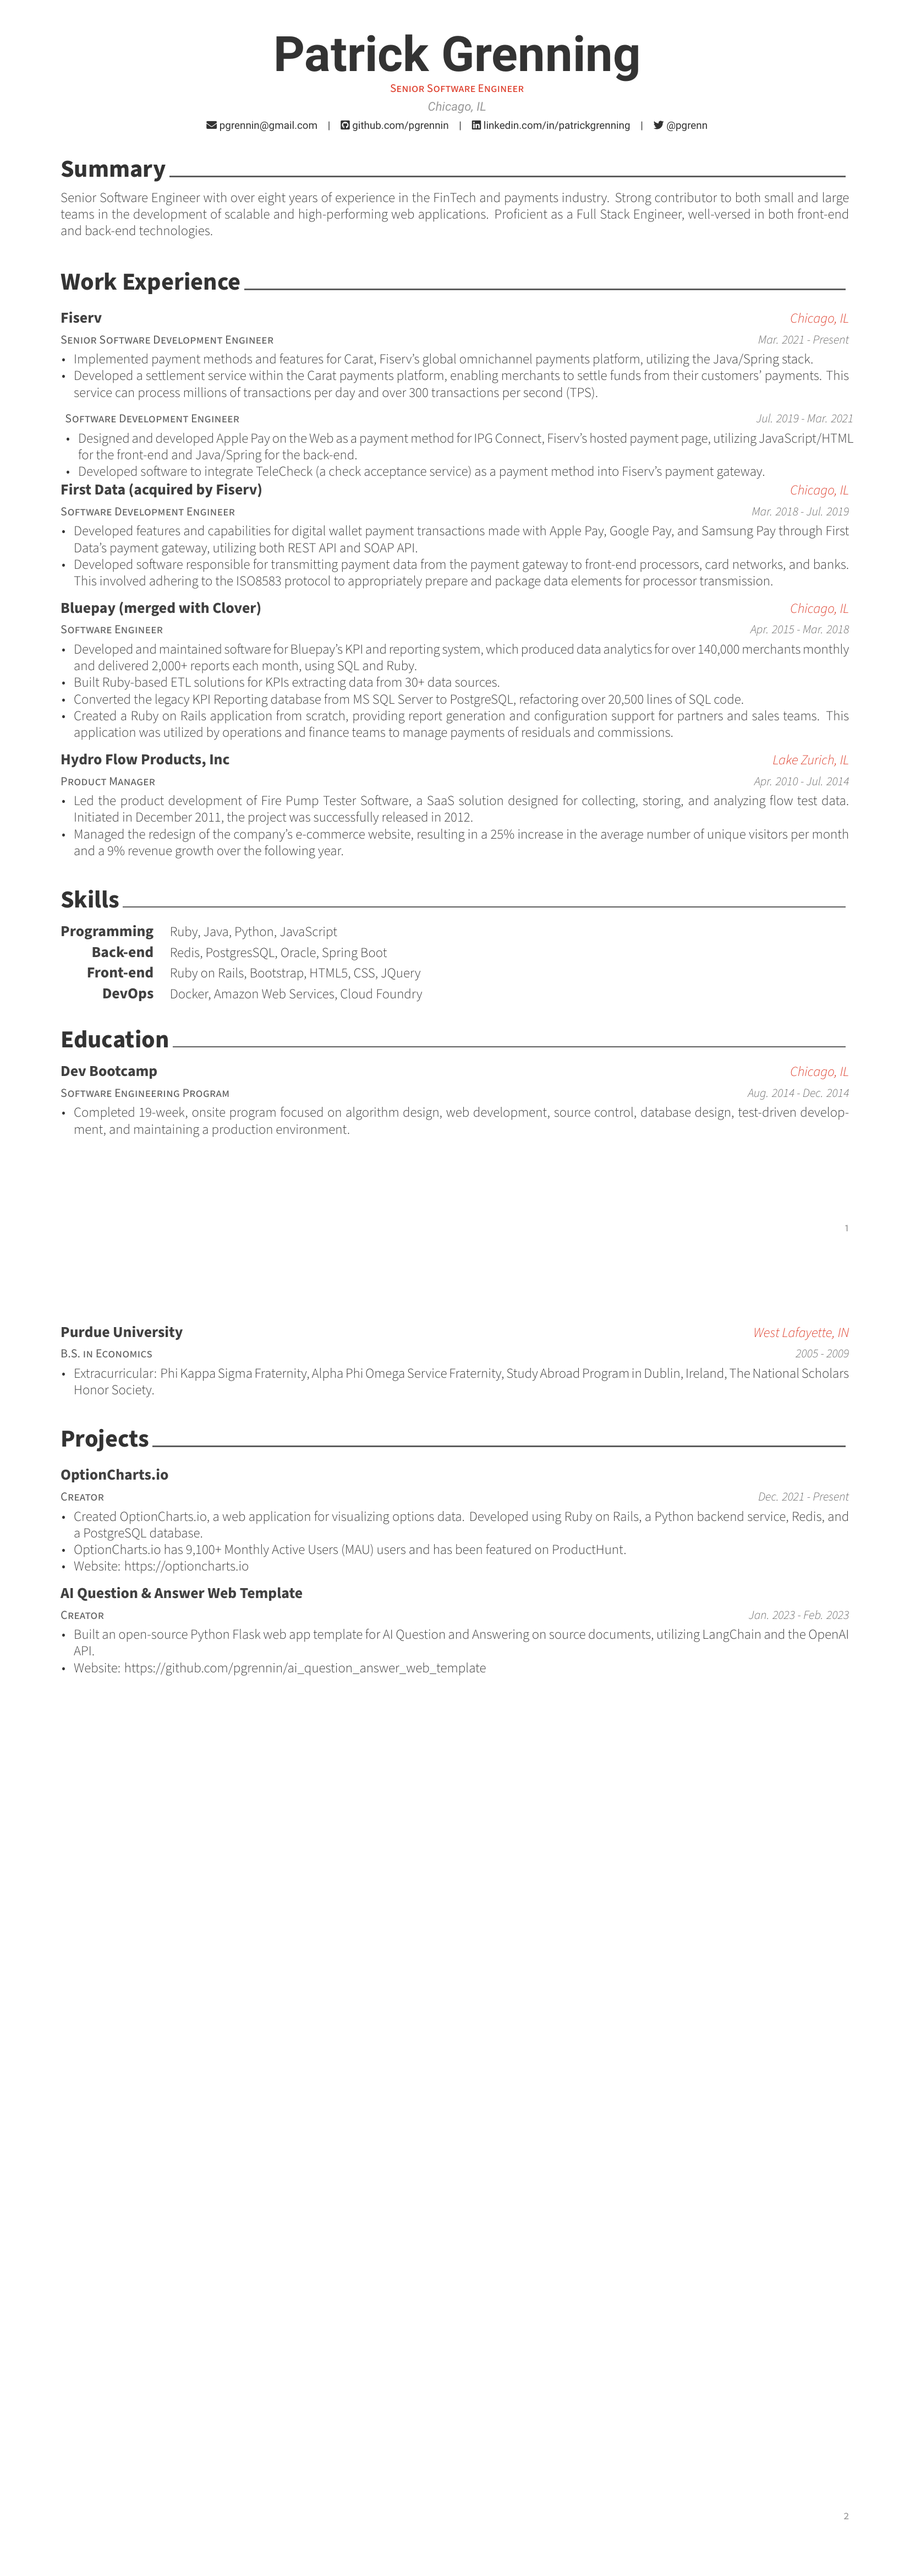
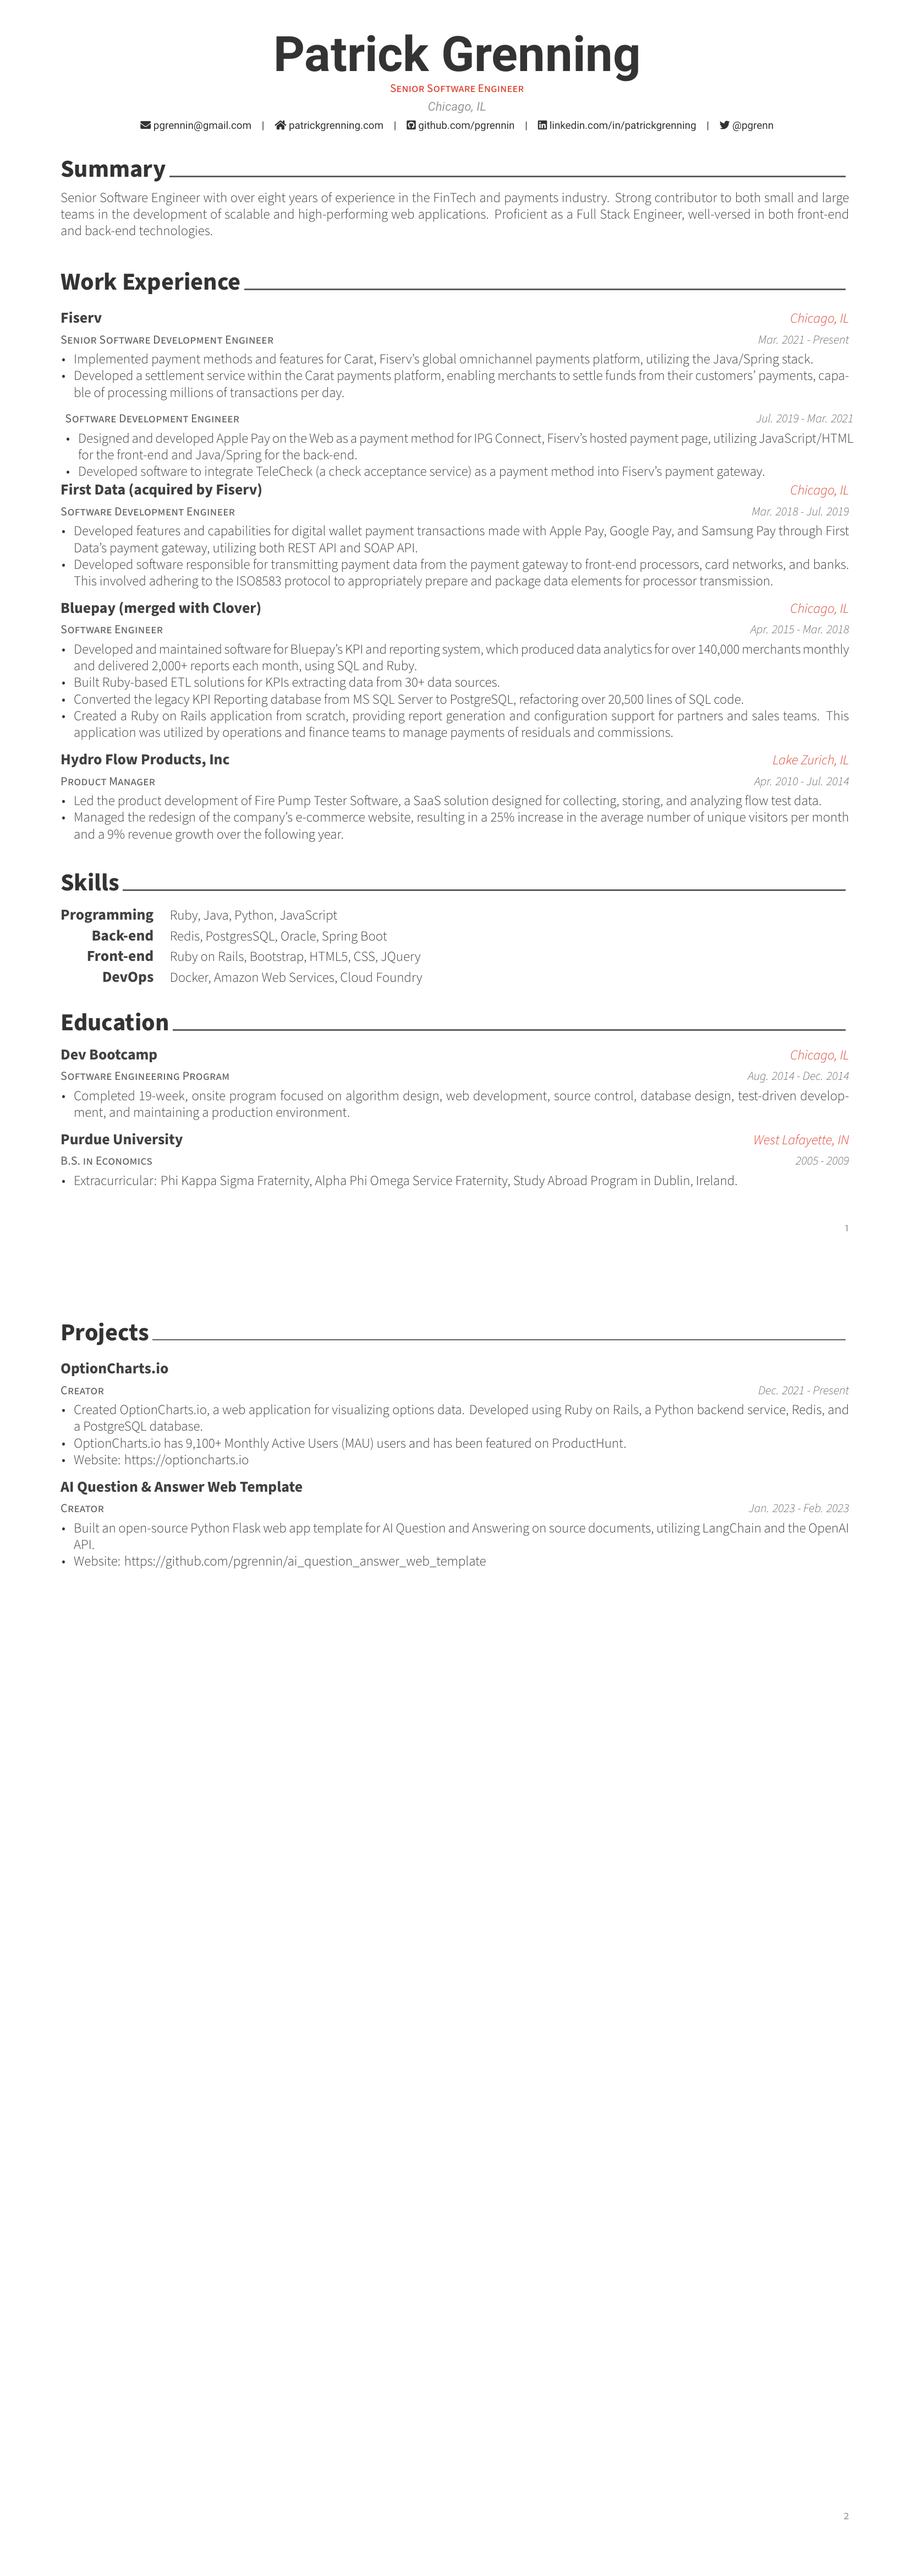
wording changes

diff --git a/examples/resume/experience.tex b/examples/resume/experience.tex
@@ -17,7 +17,7 @@
     {
         \begin{cvitems} % Description(s) of tasks/responsibilities
             \item {Implemented payment methods and features for Carat, Fiserv’s global omnichannel payments platform, utilizing the Java/Spring stack.}
-            \item {Developed a settlement service within the Carat payments platform, enabling merchants to settle funds from their customers' payments. This service can process millions of transactions per day and over 300 transactions per second (TPS).}
+            \item {Developed a settlement service within the Carat payments platform, enabling merchants to settle funds from their customers' payments, capable of processing millions of transactions per day.}
         \end{cvitems}
     }
 %---------------------------------------------------------
@@ -72,7 +72,7 @@
     {Apr. 2010 - Jul. 2014} % Date(s)
     {
         \begin{cvitems} % Description(s) of tasks/responsibilities
-            \item {Led the product development of Fire Pump Tester Software, a SaaS solution designed for collecting, storing, and analyzing flow test data. Initiated in December 2011, the project was successfully released in 2012.}
+            \item {Led the product development of Fire Pump Tester Software, a SaaS solution designed for collecting, storing, and analyzing flow test data.}
             \item {Managed the redesign of the company's e-commerce website, resulting in a 25\% increase in the average number of unique visitors per month and a 9\% revenue growth over the following year.}
         \end{cvitems}
     }

diff --git a/examples/resume/education.tex b/examples/resume/education.tex
@@ -28,7 +28,7 @@
     {2005 - 2009} % Date(s)
     {
         \begin{cvitems} % Description(s) bullet points
-            \item {Extracurricular: Phi Kappa Sigma Fraternity, Alpha Phi Omega Service Fraternity, Study Abroad Program in Dublin, Ireland, The National Scholars Honor Society.}
+            \item {Extracurricular: Phi Kappa Sigma Fraternity, Alpha Phi Omega Service Fraternity, Study Abroad Program in Dublin, Ireland.}
         \end{cvitems}
     }
 

diff --git a/examples/resume.tex b/examples/resume.tex
@@ -58,7 +58,7 @@
 %\mobile{+1(847)804-0090}
 \email{pgrennin@gmail.com}
 %\dateofbirth{January 1st, 1970}
-%\homepage{patrickgrenning.com}
+\homepage{patrickgrenning.com}
 \github{github.com/pgrennin}
 \linkedin{linkedin.com/in/patrickgrenning}
 % \gitlab{gitlab-id}
